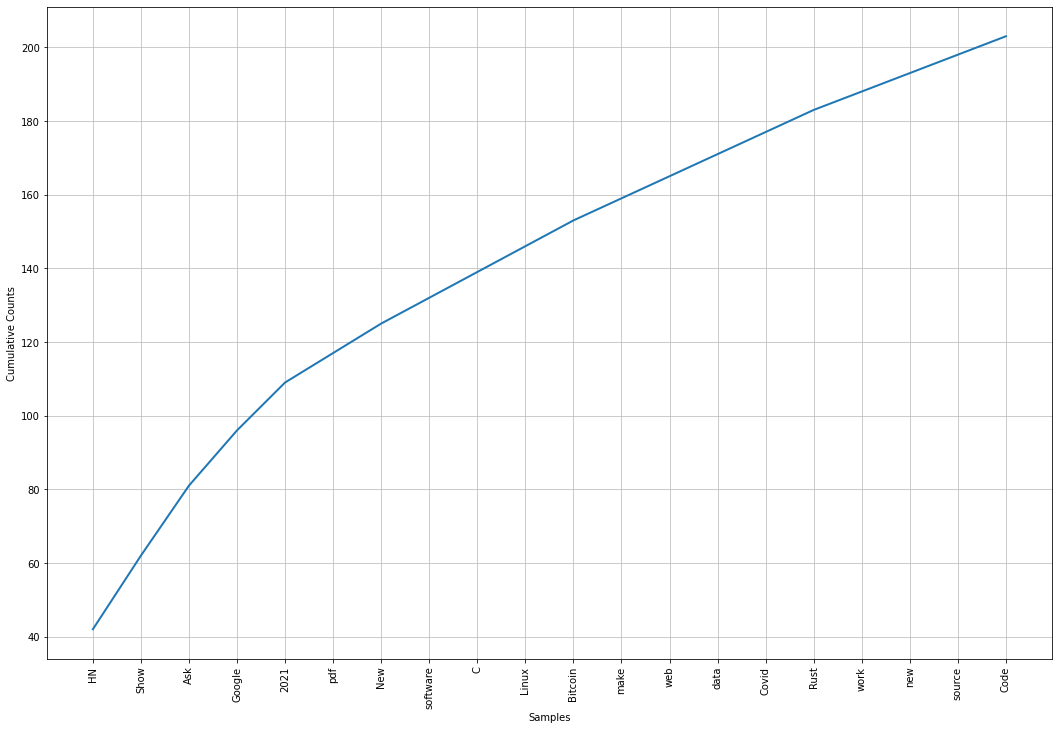
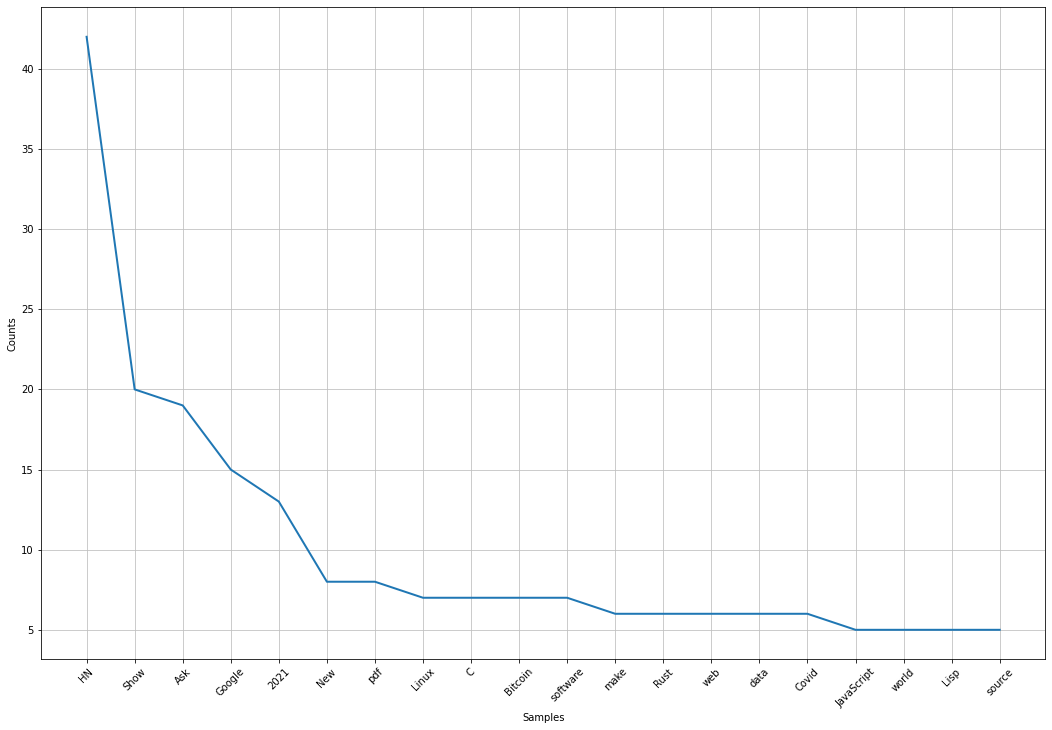
eda hackernews post draft

diff --git a/_drafts/2022-07-05-nltk-eda-hackernews.md b/_drafts/2022-07-05-nltk-eda-hackernews.md
@@ -9,24 +9,139 @@ tags: [NLTK, NLP, visualization]
 
 ![Original fruit](/assets/2022-07-05/pexels-irina-kaminskaya-12633634.jpg)
 
+This post is about corpus exploration with NLTK, it's the suite of the first post on CorpusReader.
+Working with NLTK is a great way to learn not only the toolkits but the more about EDA in NLP in general, and good practice in coding.
 
-## Concordance
+
+- [Text class wrapper](#text-class-wrapper)
+- [Sliceable](#sliceable)
+- [Concordance](#concordance)
+- [Find all regex](#find-all-regex)
+- [Token distribution](#token-distribution)
+- [Removing stop words](#removing-stop-words)
+- [Plot frequency distribution](#plot-frequency-distribution)
+- [Lexical dispersion plot](#lexical-dispersion-plot)
+- [Recurrent pattern](#recurrent-pattern)
+- [Sources](#sources)
+
+
+As the first we load our corpus with the CorpusReader class creating in the last post.
+
 ```python
-corpus_metric.story_text.concordance("language")
+story_corpus = StoryCorpusReader()
 ```
 
-## Frequency distribution
+# Text class wrapper
+A wrapper around a sequence of simple (string) tokens, which is intended to support initial exploration of texts (via the interactive console). Its methods perform a variety of analyses
+on the text's contexts and display the results
+* counting
+* concordancing
+* collocation discovery
+
+If you wish to write a program which makes use of these analyses, then you should bypass the `Text` class, and use the appropriate analysis function or class directly instead.
+
+A `Text` is typically initialized from a given document or corpus.  E.g.:
+
 ```python
-corpus_metric.frequency_distribution.most_common(20)
-corpus_metric.frequency_distribution.plot(20, cumulative=True)
+from nltk.text import Text
+story_text = Text(story_corpus.sentences_tokens())
+```
+
+# Sliceable
+Following method give the same results
+```python
+story_text[3:5]
+story_text.tokens[3:5]
+```
+
+```python
+>>> ['noninvasive', 'optical']
+```
+
+# Concordance
+Prints a concordance for `word` with the specified context window. Word matching is not case-sensitive.
+
+```python
+story_text.concordance("language")
+```
+
+```python
+>>> Displaying 5 of 5 matches:
+>>>  plant A probabilistic programming language in 70 lines of Python A better way
+>>> n Binary Interface ABI Ask HN What language will you pick if you are to reinve
+>>> using DNSSEC The case for a modern language Consistency Sin Cannabis use produ
+>>> Morello ISAs The case for a modern language part 1 OpenAPI Tools Starving Afgh
+>>>  station What's the Most Efficient Language Don t Worry Be Happy Today in the 
+```
+
+# Find all regex
+Find instances of the regular expression in the text. The text is a list of tokens, and a regexp pattern to match a single token must be surrounded by angle brackets.
+
+```python
+story_text.findall("<.*><.*><Google>")
+```
+
+```python
+>>> co-founder leaves Google; Migrations Can Google; great resignation
+>>> Google; CUDA support Google; about the Google; sign for Google;
+>>> Sideloading Is Google; founders of Google; at risk Google; Idempotent
+>>> API Google; alternative to Google; Up with Google; absorbing them
+>>> Google; a failure Google; logic behind Google
+```
+
+# Token distribution
+
+Find most common tokens
+```python
+story_text.vocab().most_common(10)
+```
+
+`vocab()` is a dictionary. key token and value the number of times the token appears in the corpus.
+
+```python
+>>> [('of', 81),
+>>>  ('to', 74),
+>>>  ('the', 73),
+>>>  ('in', 69),
+>>>  ('a', 63),
+>>>  ('and', 59),
+>>>  ('for', 54),
+>>>  ('The', 50),
+>>>  ('HN', 42),
+>>>  ('is', 31)]
+```
+
+To have better idea of the most frequent word of this corpus, we would like to remove stop words, that is, words that are common across all corpus.
+
+# Removing stop words
+```python
+story_vocab = story_text.vocab()
+stop_words = set(stopwords.words("english"))
+
+removable_vocab_keys = []
+for vocab_key in story_vocab.keys():
+    if vocab_key.casefold() in stop_words:
+        removable_vocab_keys.append(vocab_key)
+
+for removable_vocab_key in removable_vocab_keys:
+    story_vocab.pop(removable_vocab_key)
+```
+
+# Plot frequency distribution
+
+
+```python
+plt.figure(figsize=(18, 12))
+story_vocab.plot(20, cumulative=False, percents=False, show=False)
+plt.xticks(rotation=45)
 ```
 
 ![alt](/assets/2022-07-05/frequency-distribution.png)
 
-## Lexical dispersion plot
+# Lexical dispersion plot
 
 ```python
-corpus_metric.story_text.dispersion_plot(
+story_text.dispersion_plot(
     [
         "Google",
         "Microsoft",
@@ -39,11 +154,7 @@ corpus_metric.story_text.dispersion_plot(
 
 ![alt](/assets/2022-07-05/lexical-dispersion-plot.png)
 
-## Word Cloud
-
-![alt](/assets/2022-07-05/word-cloud.png)
-
-## Recurrent pattern
+# Recurrent pattern
 
 ```python
 topstories[topstories["title"].str.contains("Ask HN")]["title"]
@@ -51,4 +162,4 @@ topstories[topstories["title"].str.contains("Ask HN")]["title"]
 
 
 # Sources
-* 
+* NLTK

diff --git a/about.md b/about.md
@@ -13,7 +13,7 @@ Data Science is a multidisciplinary field that combines *mathematics/statistic/a
 
 As a matter of course this blog may be related to one or more of these disciplines :relaxed:
 
-And why another blog? First for myself, because trying to explain something show me often the holes in my knowledge. It also forces to structure my thoughts and I hope it will be a good record for the future.
+And why another blog? First for myself, because trying to explain something shows me often the holes in my knowledge. It also forces to structure my thoughts and I hope it will be a good record for the future.
 
 To close this page, I make a random selection of quotes :grin:
 
